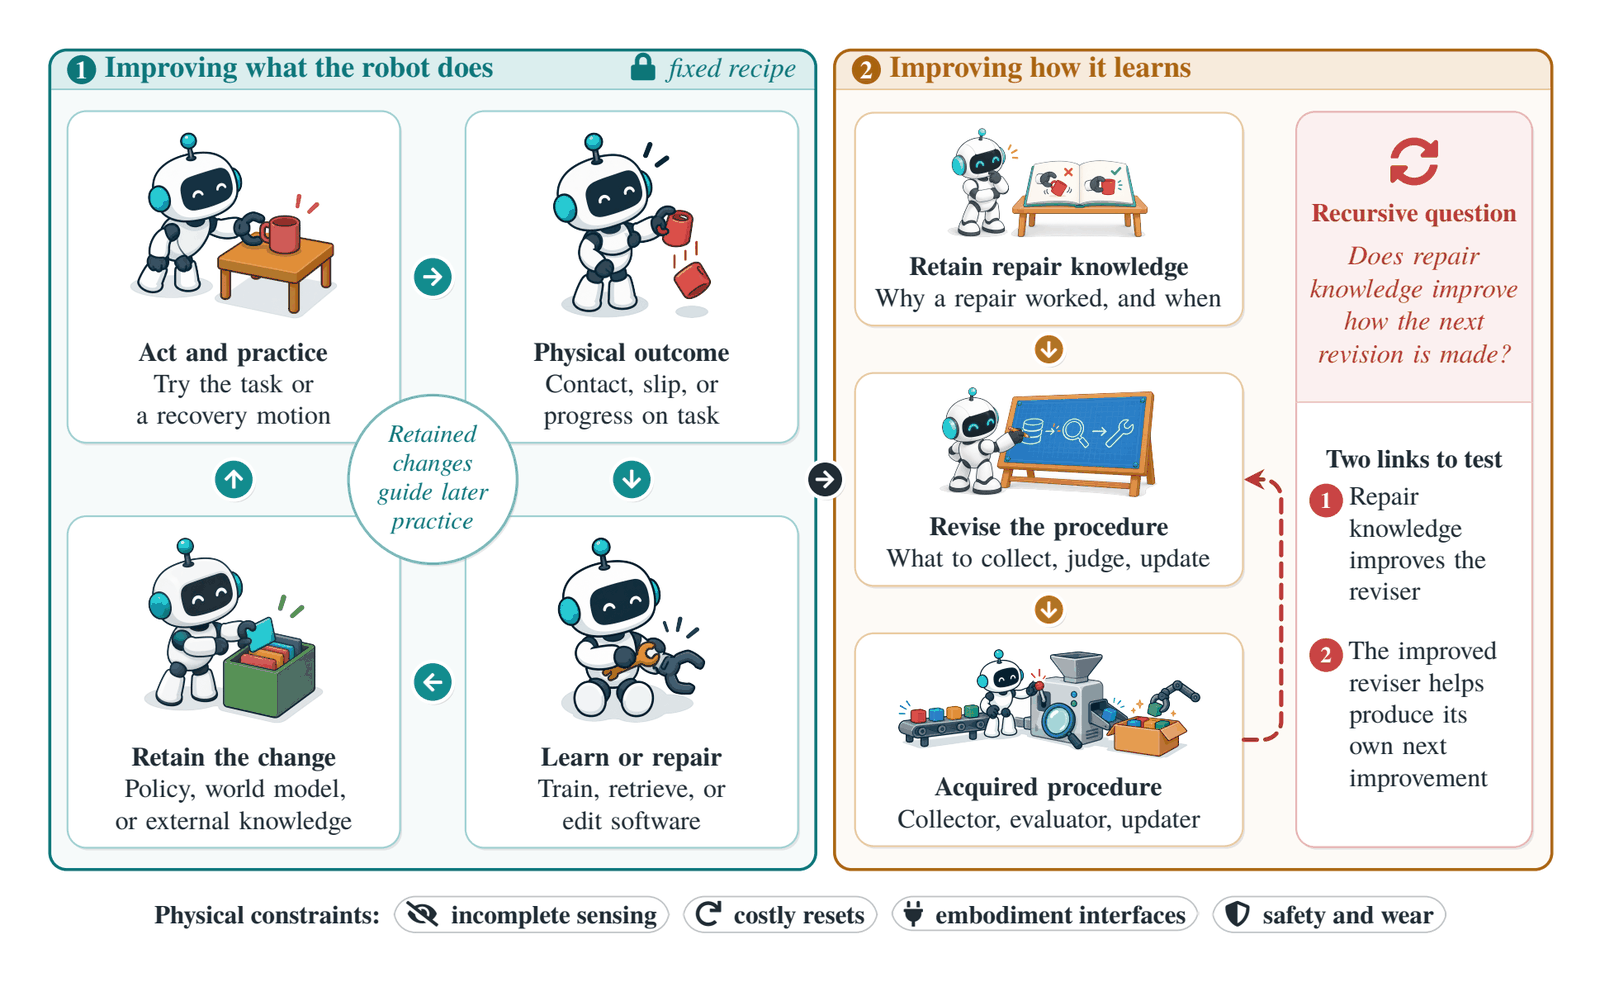
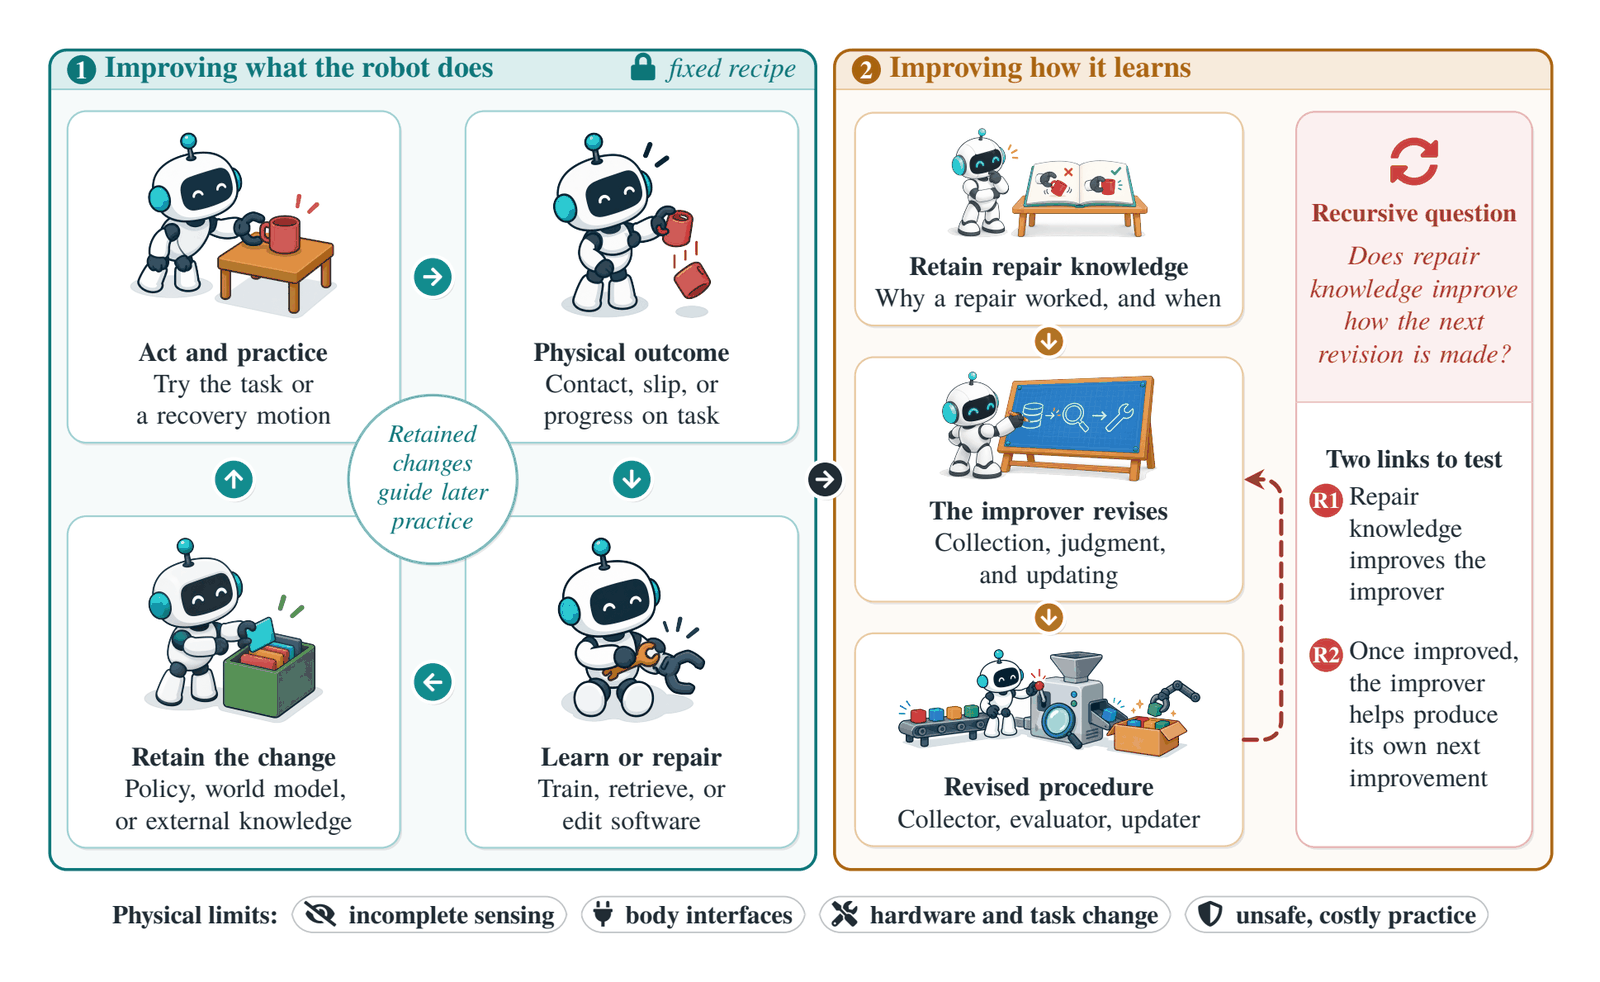
Update all nine figures and captions to the latest manuscript

diff --git a/index.html b/index.html
@@ -192,12 +192,12 @@
               </aside>
             </div>
             <figure class="survey-figure">
-              <img src="assets/readme/figures/figure-1.webp" width="1600" height="918" loading="lazy" decoding="async" alt="Figure 1. From digital to physical recursive self-improvement." />
-              <figcaption><strong>Figure 1. From digital to physical recursive self-improvement.</strong> Digital RSI supplies the mechanisms of recursive improvement; physical RSI tests how they use physical experience and whether they hold under physical constraints. Numbers mark the four places where experience leaves a change; recursion would begin at the fourth.</figcaption>
+              <img src="assets/readme/figures/figure-1.webp" width="1600" height="899" loading="lazy" decoding="async" alt="Figure 1. From digital to physical recursive self-improvement." />
+              <figcaption><strong>Figure 1. From digital to physical recursive self-improvement.</strong> Numbers mark where experience leaves a change: policy (1), world model (2), and external knowledge (3) improve what the robot does; the learning procedure (4) changes how it learns; and the improver, drawn as the loop around the procedure, revises it. RSI further requires that repair knowledge improve the improver and that the improver, once improved, help produce its own next improvement.</figcaption>
             </figure>
             <figure class="survey-figure">
               <img src="assets/readme/figures/figure-2.png" width="1600" height="982" loading="lazy" decoding="async" alt="Figure 2. Improving what the robot does and how it learns." />
-              <figcaption><strong>Figure 2. Improving what the robot does and how it learns.</strong> The left loop applies a fixed recipe; the right route retains repair knowledge that guides later learning. The dashed return asks whether that knowledge also improves how the next revision is made.</figcaption>
+              <figcaption><strong>Figure 2. Improving what the robot does and how it learns.</strong> On the left, the learner improves under a fixed recipe and retains the change in its policy, world model, or external knowledge. On the right, the improver revises the learning procedure using retained repair knowledge; the dashed return asks whether that knowledge improves how the next revision is made (R1), and whether the improver, once improved, then helps produce its own next improvement (R2). The bottom row lists the physical limits behind the four conditions that let gains carry forward.</figcaption>
             </figure>
           </div>
           <div class="survey-block" id="survey-questions" data-reveal data-chapter="Research questions">
@@ -230,7 +230,7 @@
             <p class="evidence-note"><strong>What current evidence shows.</strong> Existing experiments demonstrate behavioral gains, some later-learning benefits, and local procedure improvements, with detailed hardware evidence concentrated in manipulation. Isolating the causal chain that recursion requires is the next step.</p>
             <figure class="survey-figure">
               <img src="assets/readme/figures/figure-8.png" width="1600" height="571" loading="lazy" decoding="async" alt="Figure 8. Does a revised component help the next learner?" />
-              <figcaption><strong>Figure 8. Does a revised component help the next learner?</strong> Illustrated with an evaluator.</figcaption>
+              <figcaption><strong>Figure 8. Does a revised component help the next learner?</strong> Two matched learners differ only in the component under test, here an evaluator. Their common outcome check stays fixed and separate from that evaluator; comparing the learners&#39; outcomes tests procedure improvement.</figcaption>
             </figure>
           </div>
           <div class="survey-block" id="survey-uses" data-reveal data-chapter="Four uses of acquired change">
@@ -268,8 +268,8 @@
               </article>
             </div>
             <figure class="survey-figure">
-              <img src="assets/readme/figures/figure-4.png" width="1600" height="1264" loading="lazy" decoding="async" alt="Figure 4. Where an acquired change is kept, and its use." />
-              <figcaption><strong>Figure 4. Where an acquired change is kept, and its use.</strong> Each row follows the grasp example from physical experience to the retained change and its immediate use; the italic line names the use. Dashed tags mark secondary handoffs into the learning procedure.</figcaption>
+              <img src="assets/readme/figures/figure-4.png" width="1600" height="1264" loading="lazy" decoding="async" alt="Figure 4. Where a retained change is kept, and its use." />
+              <figcaption><strong>Figure 4. Where a retained change is kept, and its use.</strong> Each row follows the grasp example from physical experience to the retained change and its immediate use; the italic line names the use. Dashed tags mark secondary handoffs into the learning procedure.</figcaption>
             </figure>
             <figure class="survey-figure">
               <img src="assets/readme/figures/figure-5.png" width="1600" height="588" loading="lazy" decoding="async" alt="Figure 5. Four teaching signals from physical experience." />
@@ -300,8 +300,8 @@
               <img class="block-art" src="assets/art/revise.webp" width="466" height="480" loading="lazy" decoding="async" alt="" />
             </div>
             <figure class="survey-figure">
-              <img src="assets/readme/figures/figure-9.png" width="1600" height="880" loading="lazy" decoding="async" alt="Figure 9. A proposed test of the two links of recursive self-improvement." />
-              <figcaption><strong>Figure 9. A proposed test of the two links of recursive self-improvement.</strong></figcaption>
+              <img src="assets/readme/figures/figure-9.png" width="1600" height="880" loading="lazy" decoding="async" alt="Figure 9. A proposed test of the two links of recursive self-improvement (R1 and R2)." />
+              <figcaption><strong>Figure 9. A proposed test of the two links of recursive self-improvement (R1 and R2).</strong> In R2, self-revision with frozen or acquired knowledge first produces the control or next improver, respectively. Each then revises a learning procedure, tested through fresh matched learners under a common, protected outcome check.</figcaption>
             </figure>
             <ul class="recursion-list">
               <li><span class="recursion-dot" aria-hidden="true"></span><div><strong>Useful results and revised procedures can already help the next learner.</strong> Later-learning benefits and local procedure improvements are tested in several physical and simulated comparisons.</div></li>

diff --git a/README.md b/README.md
@@ -31,11 +31,11 @@ To see what present systems establish, the survey follows acquired changes (poli
 >
 > This view explains why successful data collection may yield poor teaching data, and why more accurate prediction may fail to improve control.
 
-<p align="center"><img src="assets/readme/figures/figure-1.webp" width="900" alt="Figure 1. From digital to physical recursive self-improvement. Digital RSI supplies the mechanisms of recursive improvement; physical RSI tests how they use physical experience and whether they hold under physical constraints. Numbers mark the four places where experience leaves a change; recursion would begin at the fourth."></p>
-<p align="center"><sub><b>Figure 1. From digital to physical recursive self-improvement.</b> Digital RSI supplies the mechanisms of recursive improvement; physical RSI tests how they use physical experience and whether they hold under physical constraints. Numbers mark the four places where experience leaves a change; recursion would begin at the fourth.</sub></p>
+<p align="center"><img src="assets/readme/figures/figure-1.webp" width="900" alt="Figure 1. From digital to physical recursive self-improvement. Numbers mark where experience leaves a change: policy (1), world model (2), and external knowledge (3) improve what the robot does; the learning procedure (4) changes how it learns; and the improver, drawn as the loop around the procedure, revises it. RSI further requires that repair knowledge improve the improver and that the improver, once improved, help produce its own next improvement."></p>
+<p align="center"><sub><b>Figure 1. From digital to physical recursive self-improvement.</b> Numbers mark where experience leaves a change: policy (1), world model (2), and external knowledge (3) improve what the robot does; the learning procedure (4) changes how it learns; and the improver, drawn as the loop around the procedure, revises it. RSI further requires that repair knowledge improve the improver and that the improver, once improved, help produce its own next improvement.</sub></p>
 
-<p align="center"><img src="assets/readme/figures/figure-2.png" width="900" alt="Figure 2. Improving what the robot does and how it learns. The left loop applies a fixed recipe; the right route retains repair knowledge that guides later learning. The dashed return asks whether that knowledge also improves how the next revision is made."></p>
-<p align="center"><sub><b>Figure 2. Improving what the robot does and how it learns.</b> The left loop applies a fixed recipe; the right route retains repair knowledge that guides later learning. The dashed return asks whether that knowledge also improves how the next revision is made.</sub></p>
+<p align="center"><img src="assets/readme/figures/figure-2.png" width="900" alt="Figure 2. Improving what the robot does and how it learns. On the left, the learner improves under a fixed recipe and retains the change in its policy, world model, or external knowledge. On the right, the improver revises the learning procedure using retained repair knowledge; the dashed return asks whether that knowledge improves how the next revision is made (R1), and whether the improver, once improved, then helps produce its own next improvement (R2). The bottom row lists the physical limits behind the four conditions that let gains carry forward."></p>
+<p align="center"><sub><b>Figure 2. Improving what the robot does and how it learns.</b> On the left, the learner improves under a fixed recipe and retains the change in its policy, world model, or external knowledge. On the right, the improver revises the learning procedure using retained repair knowledge; the dashed return asks whether that knowledge improves how the next revision is made (R1), and whether the improver, once improved, then helps produce its own next improvement (R2). The bottom row lists the physical limits behind the four conditions that let gains carry forward.</sub></p>
 
 <picture><source media="(prefers-color-scheme: dark)" srcset="assets/readme/icons/questions-dark.svg"><source media="(prefers-color-scheme: light)" srcset="assets/readme/icons/questions-light.svg"><img src="assets/readme/icons/questions-light.svg" alt="" width="36" align="left"></picture>
 
@@ -80,8 +80,8 @@ Select a card to jump directly to its section.
 > [!NOTE]
 > **What current evidence shows.** Existing experiments demonstrate behavioral gains, some later-learning benefits, and local procedure improvements, with detailed hardware evidence concentrated in manipulation. Isolating the causal chain that recursion requires is the next step.
 
-<p align="center"><img src="assets/readme/figures/figure-8.png" width="900" alt="Figure 8. Does a revised component help the next learner? Illustrated with an evaluator."></p>
-<p align="center"><sub><b>Figure 8. Does a revised component help the next learner?</b> Illustrated with an evaluator.</sub></p>
+<p align="center"><img src="assets/readme/figures/figure-8.png" width="900" alt="Figure 8. Does a revised component help the next learner? Two matched learners differ only in the component under test, here an evaluator. Their common outcome check stays fixed and separate from that evaluator; comparing the learners&#39; outcomes tests procedure improvement."></p>
+<p align="center"><sub><b>Figure 8. Does a revised component help the next learner?</b> Two matched learners differ only in the component under test, here an evaluator. Their common outcome check stays fixed and separate from that evaluator; comparing the learners&#39; outcomes tests procedure improvement.</sub></p>
 
 <details>
 <summary><b>Survey outline</b></summary>
@@ -119,8 +119,8 @@ The same physical experience can leave very different kinds of change behind, an
 | **Reuse and recovery** | Memory, skill, contract, program | Retrieve, recover, or synthesize | Reusable execution knowledge | §5 External knowledge |
 | **Learning procedure** | Collector, evaluator, editor, updater | Choose experience, judge, or construct updates | Better subsequent learning | §6 Learning procedure updates |
 
-<p align="center"><img src="assets/readme/figures/figure-4.png" width="900" alt="Figure 4. Where an acquired change is kept, and its use. Each row follows the grasp example from physical experience to the retained change and its immediate use; the italic line names the use. Dashed tags mark secondary handoffs into the learning procedure."></p>
-<p align="center"><sub><b>Figure 4. Where an acquired change is kept, and its use.</b> Each row follows the grasp example from physical experience to the retained change and its immediate use; the italic line names the use. Dashed tags mark secondary handoffs into the learning procedure.</sub></p>
+<p align="center"><img src="assets/readme/figures/figure-4.png" width="900" alt="Figure 4. Where a retained change is kept, and its use. Each row follows the grasp example from physical experience to the retained change and its immediate use; the italic line names the use. Dashed tags mark secondary handoffs into the learning procedure."></p>
+<p align="center"><sub><b>Figure 4. Where a retained change is kept, and its use.</b> Each row follows the grasp example from physical experience to the retained change and its immediate use; the italic line names the use. Dashed tags mark secondary handoffs into the learning procedure.</sub></p>
 
 <p align="center"><img src="assets/readme/figures/figure-5.png" width="900" alt="Figure 5. Four teaching signals from physical experience. Each column follows the grasp example: what was experienced, what the signal changes in the training data, and representative systems from this section."></p>
 <p align="center"><sub><b>Figure 5. Four teaching signals from physical experience.</b> Each column follows the grasp example: what was experienced, what the signal changes in the training data, and representative systems from this section.</sub></p>
@@ -137,8 +137,8 @@ The same physical experience can leave very different kinds of change behind, an
 
 ## Toward recursive self-improvement
 
-<p align="center"><img src="assets/readme/figures/figure-9.png" width="900" alt="Figure 9. A proposed test of the two links of recursive self-improvement."></p>
-<p align="center"><sub><b>Figure 9. A proposed test of the two links of recursive self-improvement.</b></sub></p>
+<p align="center"><img src="assets/readme/figures/figure-9.png" width="900" alt="Figure 9. A proposed test of the two links of recursive self-improvement (R1 and R2). In R2, self-revision with frozen or acquired knowledge first produces the control or next improver, respectively. Each then revises a learning procedure, tested through fresh matched learners under a common, protected outcome check."></p>
+<p align="center"><sub><b>Figure 9. A proposed test of the two links of recursive self-improvement (R1 and R2).</b> In R2, self-revision with frozen or acquired knowledge first produces the control or next improver, respectively. Each then revises a learning procedure, tested through fresh matched learners under a common, protected outcome check.</sub></p>
 
 - **Useful results and revised procedures can already help the next learner.** Later-learning benefits and local procedure improvements are tested in several physical and simulated comparisons.
 - **Repair knowledge can improve the reviser.** Testing this first link requires comparing the reviser with its earlier and its acquired repair knowledge.
